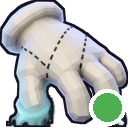
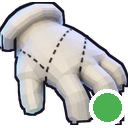
fix(brand): crop the toolbar glove to the solid bone
The bright cyan plume passed the luminance row test, so the crop still included the wrist trail. Count low-chroma bone only, and clear the trail that hangs beside the longer fingers.

Changed region(s): [[0.0, 0.0, 1.0, 1.0], [0.8438, 0.875, 1.0, 1.0], [0.1875, 0.2188, 0.2188, 0.25]]

diff --git a/docs/brand/scripts/pack-icons.py b/docs/brand/scripts/pack-icons.py
@@ -71,81 +71,91 @@ def opaque_bbox(im: Image.Image, min_alpha: int = 24) -> tuple[int, int, int, in
     return (min_x, min_y, max_x + 1, max_y + 1)
 
 
-def glove_bbox(
-    im: Image.Image,
-    min_lum: int = 140,
-    min_row: int = 40,
-    pad: int = 8,
-) -> tuple[int, int, int, int]:
-    """Bounding box of the solid glove.
+# Bone of the glove. The cyan plume is bright enough to pass a luminance
+# count, and the inactive smoke is dim. Neither is a solid glove pixel.
+SOLID_MIN_ALPHA = 80
+SOLID_MIN_LUMA = 118
+SOLID_MAX_CHROMA = 36
+SOLID_MIN_RUN = 40
+ISLAND_MIN_RUN = 6
+TRAIL_GAP = 2
 
-    The wrist mist and smoke are faint rows under the cuff. Counting them
-    makes the crop tall, so the glove is scaled down to fit the trail.
-    A row counts only when it has a solid run of bright pixels.
+
+def solid_glove_pixel(r: int, g: int, b: int, a: int) -> bool:
+    if a < SOLID_MIN_ALPHA:
+        return False
+    if (r + g + b) / 3 < SOLID_MIN_LUMA:
+        return False
+    if max(r, g, b) - min(r, g, b) > SOLID_MAX_CHROMA:
+        return False
+    return True
+
+
+def glove_rows(im: Image.Image) -> list[tuple[int, list[tuple[int, int]]]]:
+    """Rows of the solid glove, as inclusive-exclusive x runs.
+
+    A row counts when its longest bone run is the glove. A short island
+    in the plume does not count, so it cannot hold the crop open.
     """
     rgba = im.convert("RGBA")
     px = rgba.load()
     w, h = rgba.size
-    rows: list[tuple[int, int, int]] = []
+    found: list[tuple[int, list[tuple[int, int]]]] = []
     for y in range(h):
-        xs: list[int] = []
-        for x in range(w):
-            r, g, b, a = px[x, y]
-            if a < 24:
-                continue
-            if (r + g + b) / 3 < min_lum:
-                continue
-            xs.append(x)
-        if len(xs) >= min_row:
-            rows.append((y, min(xs), max(xs)))
+        spans: list[tuple[int, int]] = []
+        start: int | None = None
+        for x in range(w + 1):
+            bone = x < w and solid_glove_pixel(*px[x, y])
+            if bone and start is None:
+                start = x
+            elif not bone and start is not None:
+                spans.append((start, x))
+                start = None
+        if not spans or max(b - a for a, b in spans) < SOLID_MIN_RUN:
+            continue
+        kept = [span for span in spans if span[1] - span[0] >= ISLAND_MIN_RUN]
+        if kept:
+            found.append((y, kept))
+    return found
+
+
+def glove_bbox(im: Image.Image, pad: int = 8) -> tuple[int, int, int, int]:
+    """Bounding box of the solid glove, so the crop is not stretched by the trail."""
+    rows = glove_rows(im)
     if not rows:
         return opaque_bbox(im)
-    min_x = max(0, min(row[1] for row in rows) - pad)
-    max_x = min(w, max(row[2] for row in rows) + 1 + pad)
-    min_y = max(0, rows[0][0] - pad)
-    max_y = min(h, rows[-1][0] + 1 + pad)
-    return (min_x, min_y, max_x, max_y)
-
-
-def last_solid_row(
-    im: Image.Image,
-    box: tuple[int, int, int, int],
-    min_lum: int = 140,
-    min_row: int = 40,
-) -> int | None:
-    """Lowest row in the crop that is still the solid glove, not the plume."""
-    px = im.load()
-    x0, _y0, x1, y1 = box
-    for y in range(y1 - 1, _y0 - 1, -1):
-        solid = 0
-        for x in range(x0, x1):
-            r, g, b, a = px[x, y]
-            if a < 24:
-                continue
-            if (r + g + b) / 3 < min_lum:
-                continue
-            solid += 1
-            if solid >= min_row:
-                return y
-    return None
+    xs = [x for _y, spans in rows for a, b in spans for x in (a, b - 1)]
+    ys = [y for y, _spans in rows]
+    w, h = im.size
+    return (
+        max(0, min(xs) - pad),
+        max(0, min(ys) - pad),
+        min(w, max(xs) + 1 + pad),
+        min(h, max(ys) + 1 + pad),
+    )
 
 
 def clear_mist_in_bbox(im: Image.Image, box: tuple[int, int, int, int]) -> Image.Image:
-    """Drop the plume that hangs below the wrist inside the glove rectangle.
+    """Drop the trail that hangs below the glove in each column.
 
-    Color matching across the whole crop also deletes the cyan rim on the
-    cuff. The rim sits on the solid glove; the mist and the inactive gray
-    smoke sit in the pad under the last solid row.
+    Fingers reach lower than the wrist, so one horizontal floor keeps the
+    plume beside them. The cyan rim on the cuff stays: it sits on the
+    solid row, and columns with no glove are left alone.
     """
-    floor = last_solid_row(im, box)
-    if floor is None:
-        return im
+    last: dict[int, int] = {}
+    for y, spans in glove_rows(im):
+        for a, b in spans:
+            for x in range(a, b):
+                last[x] = y
     out = im.copy()
     px = out.load()
     x0, _y0, x1, y1 = box
-    for y in range(floor + 1, y1):
-        for x in range(x0, x1):
-            if px[x, y][3] > 0:
+    for x in range(x0, x1):
+        floor = last.get(x)
+        if floor is None:
+            continue
+        for y in range(min(y1, floor + TRAIL_GAP), y1):
+            if px[x, y][3] > 8:
                 px[x, y] = (0, 0, 0, 0)
     return out
 

diff --git a/docs/brand/scripts/test_pack_icons.py b/docs/brand/scripts/test_pack_icons.py
@@ -1,0 +1,70 @@
+"""The toolbar crop is the solid glove, not the bright wrist trail."""
+
+import importlib.util
+from pathlib import Path
+
+from PIL import Image
+
+SCRIPT = Path(__file__).with_name("pack-icons.py")
+spec = importlib.util.spec_from_file_location("pack_icons", SCRIPT)
+pack = importlib.util.module_from_spec(spec)
+spec.loader.exec_module(pack)
+
+
+def _blank() -> Image.Image:
+    return Image.new("RGBA", (200, 220), (0, 0, 0, 0))
+
+
+def _fill(im: Image.Image, box, color) -> None:
+    px = im.load()
+    x0, y0, x1, y1 = box
+    for y in range(y0, y1):
+        for x in range(x0, x1):
+            px[x, y] = color
+
+
+def test_bright_plume_does_not_stretch_the_crop():
+    im = _blank()
+    bone = (230, 228, 220, 255)
+    _fill(im, (30, 40, 170, 120), bone)
+    # Finger reaches below the wrist. The plume beside it is bright cyan.
+    _fill(im, (110, 120, 165, 150), bone)
+    _fill(im, (40, 120, 100, 210), (90, 210, 235, 255))
+    im.putpixel((60, 180), bone)
+
+    box = pack.glove_bbox(im, pad=0)
+    assert box[1] == 40
+    assert box[3] == 150
+
+    cleared = pack.clear_mist_in_bbox(im, box)
+    assert cleared.getpixel((80, 80))[3] == 255
+    assert cleared.getpixel((130, 140))[3] == 255
+    assert cleared.getpixel((50, 140))[3] == 0
+    assert box[3] < 180
+
+
+def test_dim_smoke_beside_a_finger_is_cleared():
+    im = _blank()
+    bone = (210, 208, 200, 255)
+    _fill(im, (30, 40, 170, 120), bone)
+    _fill(im, (110, 120, 165, 150), bone)
+    _fill(im, (40, 120, 100, 200), (70, 70, 72, 255))
+
+    box = pack.glove_bbox(im, pad=0)
+    assert box[3] == 150
+    cleared = pack.clear_mist_in_bbox(im, box)
+    assert cleared.getpixel((50, 140))[3] == 0
+    assert cleared.getpixel((130, 140))[3] == 255
+
+
+def test_cuff_rim_on_the_solid_row_stays():
+    im = _blank()
+    bone = (230, 228, 220, 255)
+    _fill(im, (40, 40, 160, 140), bone)
+    # Cyan rim on the same rows as the glove, not a trail below it.
+    _fill(im, (20, 40, 40, 140), (80, 190, 220, 255))
+
+    box = pack.glove_bbox(im, pad=8)
+    cleared = pack.clear_mist_in_bbox(im, box)
+    assert cleared.getpixel((35, 80))[3] == 255
+    assert cleared.getpixel((80, 80))[3] == 255
